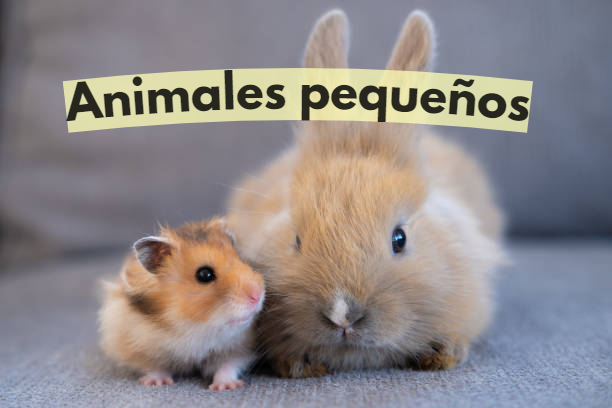
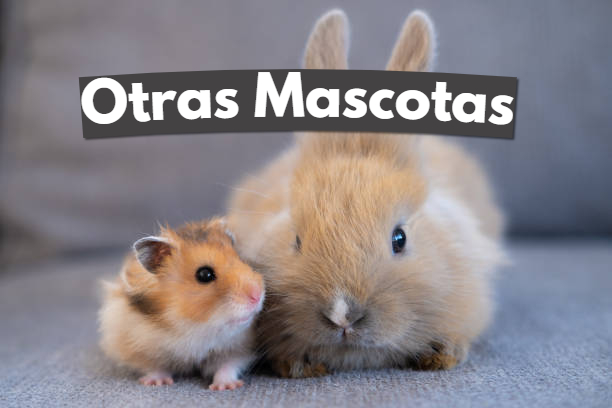
Add files via upload

Changed region(s): [[0.0931, 0.1471, 0.8693, 0.3529]]

diff --git a/animales-pequeños.html b/animales-pequeños.html
@@ -171,8 +171,8 @@
 
 
     <div class="title-balanceado caja-titles" >
-      <h1 class="text-balanceado titulos">ANIMALES PEQUEÑOS</h1>
-      <h1 class="text-balanceado-responsive">ANIMALES <br>PEQUEÑOS</h1>
+      <h1 class="text-balanceado titulos">OTRAS MASCOTAS</h1>
+      <h1 class="text-balanceado-responsive">OTRAS <br>MASCOTAS</h1>
     </div> 
     <span class="subtitle">/Balanceado</span>
 
@@ -180,20 +180,39 @@
     <hr>
     <br>
 
-    <div class="container-resize">
-        <div class="resize" >
-                    <img src="doc-selection.png" alt="vacas">
-                    <img src="kongo.png" alt="vacas">
-                    <img src="logo-Biomax.png" alt="vacas">
-                    <img src="logo-estampa3.png" alt="vacas">
-                    <img src="logo-sieger.png" alt="vacas">
-                    <img src="logo-vagoneta3.png" alt="vacas">
-                    <img src="royal-canin.png" alt="vacas">
-                    <img src="ganacan.png" alt="vacas">
-                    <img src="purina-proplan.png" alt="vacas">
-                    <img src="nutribon.png" alt="vacas">
-            </div>
-        </div class="container-resize">
+      <div class="flex-container-balanceado-box2" >
+
+        <div class="box ">
+                <img src="shulet.jpg" alt="marca">
+        </div>
+
+        <div class="box ">
+                <img src="vitafish.PNG" alt="marca">
+        </div>
+        
+        <div class="box ">
+                <img src="prodac.png" alt="marca">
+        </div>
+
+        <div class="box ">
+                <img src="zootec.jpg" alt="marca">
+        </div>
+
+        <div class="box ">
+                <img src="nutribiz.jpg" alt="marca">
+        </div>
+        
+        <div class="box ">
+                <img src="jambiz.png" alt="marca">
+        </div>
+
+        <div class="box ">
+                <img src="el-productor.jpg" alt="marca">
+        </div>
+
+    </div> 
+
+
     <div class="title-balanceado caja-titles" >
         <h3 class="text-balanceado titulos">y muchos más. <br>
         </h3>

diff --git a/animales-de-campo.css b/animales-de-campo.css
@@ -385,6 +385,29 @@ input{
 	justify-content: space-around;
 }
 
+.flex-container-balanceado-box2{
+	background-color: #f0f0f0 ;
+	/* *! AUMENTAR ANCHO */
+	width: 87%;
+	margin: auto;
+	display: flex;
+	flex-wrap: wrap;
+	justify-content: space-around;
+}
+
+.flex-container-balanceado-box2 img {
+  height: 144px;
+  width: 200px;
+  object-fit: cover;
+  transition: all 0.3s;
+  -webkit-transition: all 0.3s;
+  -moz-transition: all 0.3s;
+  -ms-transition: all 0.3s;
+  -o-transition: all 0.3s;
+  position: relative;
+  top: 0px;
+}
+
 .caja{
 	height: 280px;
 	width: 350px;
@@ -480,6 +503,14 @@ hr{
 	margin-top:25px;
 	overflow: hidden;
 }
+.flex-container-balanceado-box2 > *{
+	background-color: #f0f0f0 ;
+	box-shadow: 0px 0px 0px 1px rgba(0, 0, 0, 0.123);
+	text-align:center;
+	color: white;
+	margin-top:25px;
+	overflow: hidden;
+}
 
 .flex-container-balanceado img{
 	height: 280px;
@@ -515,6 +546,14 @@ hr{
 }
 
 .flex-container-balanceado-box img:hover{
+	transform: scale(1.02);
+	-webkit-transform: scale(1.02);
+	-moz-transform: scale(1.02);
+	-ms-transform: scale(1.02);
+	-o-transform: scale(1.02);
+}
+
+.flex-container-balanceado-box2 img:hover{
 	transform: scale(1.02);
 	-webkit-transform: scale(1.02);
 	-moz-transform: scale(1.02);
@@ -650,6 +689,10 @@ body.darkmode{
 }
 
 .darkmode .flex-container-balanceado-box{
+	background-color: #333 ;
+}
+
+.darkmode .flex-container-balanceado-box2{
 	background-color: #333 ;
 }
 

diff --git a/index.html b/index.html
@@ -350,16 +350,11 @@
                 <img src="accesorios-editada.jpg" alt="accesorios">
             </a>
         </div>
-        <div class="caja caja8">
+        <div class="caja caja7">
             <ul>
                 <li>
                     <a href="animales-pequeños.html">
                     <img src="animalespequeños-editada.jpg" alt="animales-pequeños">
-                </li>
-                <li>
-                    <a href="animales-pequeños.html">
-                        <img src="animalespequeños2-editada.jpg" alt="animales-pequeños">
-                    </a>
                 </li>
                 <li>
                     <a href="animales-pequeños.html">

diff --git a/bovinos.html b/bovinos.html
@@ -183,6 +183,10 @@
         <div class="caja caja1">
                 <img src="conecar.jpg" alt="conecar">
         </div>
+        
+        <div class="caja caja1">
+                <img src="el-amanecer.PNG" alt="conecar">
+        </div>
 
     </div> 
 

diff --git a/cerdos.html b/cerdos.html
@@ -183,6 +183,10 @@
         <div class="caja caja1">
                 <img src="conecar.jpg" alt="conecar">
         </div>
+        
+        <div class="caja caja1">
+                <img src="el-amanecer.PNG" alt="conecar">
+        </div>
 
     </div> 
 

diff --git a/aves.html b/aves.html
@@ -183,6 +183,9 @@
         <div class="caja caja1">
                 <img src="conecar.jpg" alt="conecar">
         </div>
+        <div class="caja caja1">
+                <img src="el-amanecer.PNG" alt="conecar">
+        </div>
 
     </div> 
 

diff --git a/conejos.html b/conejos.html
@@ -184,6 +184,9 @@
         <div class="caja caja1">
                 <img src="conecar.jpg" alt="conecar">
         </div>
+        <div class="caja caja1">
+                <img src="el-amanecer.PNG" alt="conecar">
+        </div>
 
     </div> 
 

diff --git a/equinos.html b/equinos.html
@@ -183,6 +183,9 @@
         <div class="caja caja1">
                 <img src="conecar.jpg" alt="conecar">
         </div>
+        <div class="caja caja1">
+                <img src="el-amanecer.PNG" alt="conecar">
+        </div>
 
     </div> 
 
